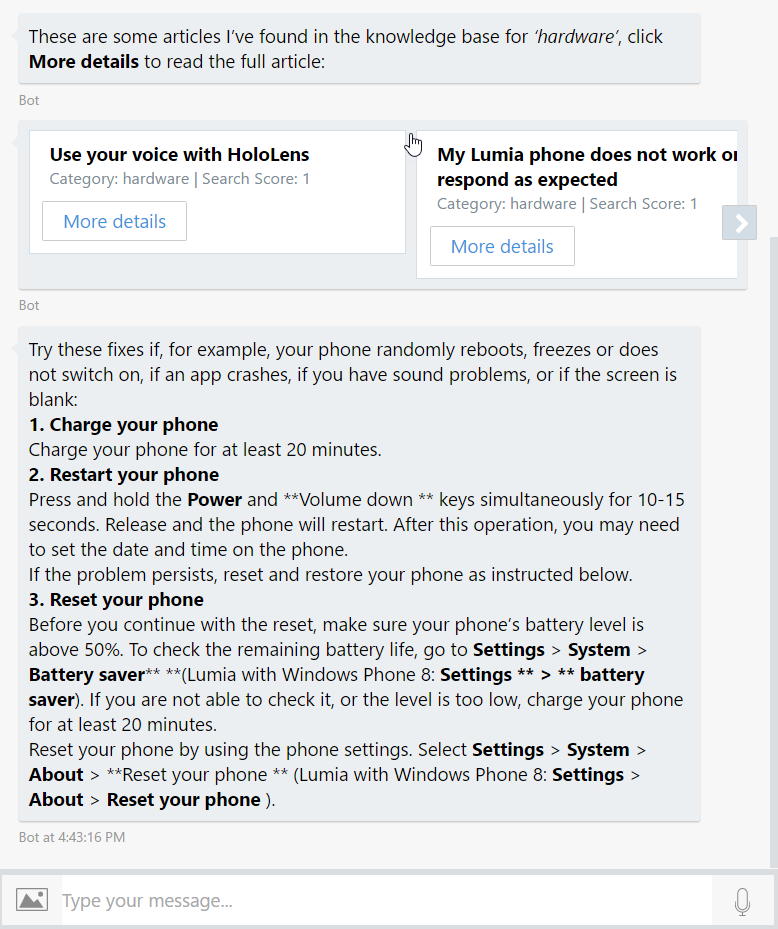
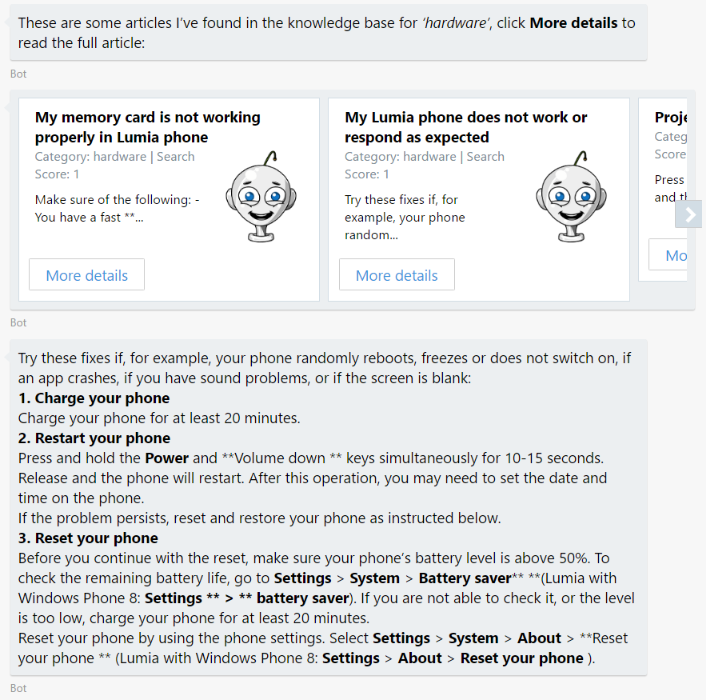
Use the happy image in the carousel.

Changed region(s): [[0.0, 0.15, 1.0, 1.0], [0.0, 0.03, 0.9037, 0.12]]

diff --git a/Node/exercise7-HandOffToHuman/app.js b/Node/exercise7-HandOffToHuman/app.js
@@ -257,7 +257,7 @@ bot.dialog('ShowKBResults', [
                         .title(faq.title)
                         .subtitle(`Category: ${faq.category} | Search Score: ${faq['@search.score']}`)
                         .text(faq.text.substring(0, Math.min(faq.text.length, 50) + '...'))
-                        .images([builder.CardImage.create(session, 'https://bot-framework.azureedge.net/bot-icons-v1/bot-framework-default-7.png')])
+                        .images([builder.CardImage.create(session, 'https://raw.githubusercontent.com/GeekTrainer/help-desk-bot-lab/develop/assets/botimages/head-smiling-medium.png')])
                         .buttons([{ title: 'More details', value: `show me the article ${faq.title}`, type: 'postBack' }])
                 );
             });
@@ -284,10 +284,10 @@ bot.dialog('UserFeedbackRequest', [
                 var cardImageUrl, cardText;
                 if (score < 0.5) {
                     cardText = 'I understand that you might be dissatisfied with my assistance. An IT representative will get in touch with you soon to help you.';
-                    cardImageUrl = 'https://raw.githubusercontent.com/sGambolati/VuforiaImageRecognition/master/Assets/head-sad-small.png';
+                    cardImageUrl = 'https://raw.githubusercontent.com/GeekTrainer/help-desk-bot-lab/develop/assets/botimages/head-sad-small.png';
                 } else {
                     cardText = 'Thanks for sharing your experience.';
-                    cardImageUrl = 'https://raw.githubusercontent.com/sGambolati/VuforiaImageRecognition/master/Assets/head-smiling-extra-small.png';
+                    cardImageUrl = 'https://raw.githubusercontent.com/GeekTrainer/help-desk-bot-lab/develop/assets/botimages/head-smiling-small.png';
                 }
                 msg.addAttachment(
                     new builder.HeroCard(session)

diff --git a/Node/exercise8-BackChannel/app.js b/Node/exercise8-BackChannel/app.js
@@ -297,7 +297,7 @@ bot.dialog('ShowKBResults', [
                         .title(faq.title)
                         .subtitle(`Category: ${faq.category} | Search Score: ${faq['@search.score']}`)
                         .text(faq.text.substring(0, Math.min(faq.text.length, 50) + '...'))
-                        .images([builder.CardImage.create(session, 'https://bot-framework.azureedge.net/bot-icons-v1/bot-framework-default-7.png')])
+                        .images([builder.CardImage.create(session, 'https://raw.githubusercontent.com/GeekTrainer/help-desk-bot-lab/develop/assets/botimages/head-smiling-medium.png')])
                         .buttons([{ title: 'More details', value: `show me the article ${faq.title}`, type: 'postBack' }])
                 );
             });
@@ -324,10 +324,10 @@ bot.dialog('UserFeedbackRequest', [
                 var cardImageUrl, cardText;
                 if (score < 0.5) {
                     cardText = 'I understand that you might be dissatisfied with my assistance. An IT representative will get in touch with you soon to help you.';
-                    cardImageUrl = 'https://raw.githubusercontent.com/sGambolati/VuforiaImageRecognition/master/Assets/head-sad-small.png';
+                    cardImageUrl = 'https://raw.githubusercontent.com/GeekTrainer/help-desk-bot-lab/develop/assets/botimages/head-sad-small.png';
                 } else {
                     cardText = 'Thanks for sharing your experience.';
-                    cardImageUrl = 'https://raw.githubusercontent.com/sGambolati/VuforiaImageRecognition/master/Assets/head-smiling-extra-small.png';
+                    cardImageUrl = 'https://raw.githubusercontent.com/GeekTrainer/help-desk-bot-lab/develop/assets/botimages/head-smiling-small.png';
                 }
                 msg.addAttachment(
                     new builder.HeroCard(session)

diff --git a/Node/exercise4-KnowledgeBase/app.js b/Node/exercise4-KnowledgeBase/app.js
@@ -222,7 +222,7 @@ bot.dialog('ShowKBResults', [
                         .title(faq.title)
                         .subtitle(`Category: ${faq.category} | Search Score: ${faq['@search.score']}`)
                         .text(faq.text.substring(0, Math.min(faq.text.length, 50) + '...'))
-                        .images([builder.CardImage.create(session, 'https://bot-framework.azureedge.net/bot-icons-v1/bot-framework-default-7.png')])
+                        .images([builder.CardImage.create(session, 'https://raw.githubusercontent.com/GeekTrainer/help-desk-bot-lab/develop/assets/botimages/head-smiling-medium.png')])
                         .buttons([{ title: 'More details', value: `show me the article ${faq.title}`, type: 'postBack' }])
                 );
             });

diff --git a/Node/exercise6-MoodDetection/app.js b/Node/exercise6-MoodDetection/app.js
@@ -223,7 +223,7 @@ bot.dialog('ShowKBResults', [
                         .title(faq.title)
                         .subtitle(`Category: ${faq.category} | Search Score: ${faq['@search.score']}`)
                         .text(faq.text.substring(0, Math.min(faq.text.length, 50) + '...'))
-                        .images([builder.CardImage.create(session, 'https://bot-framework.azureedge.net/bot-icons-v1/bot-framework-default-7.png')])
+                        .images([builder.CardImage.create(session, 'https://raw.githubusercontent.com/GeekTrainer/help-desk-bot-lab/develop/assets/botimages/head-smiling-medium.png')])
                         .buttons([{ title: 'More details', value: `show me the article ${faq.title}`, type: 'postBack' }])
                 );
             });
